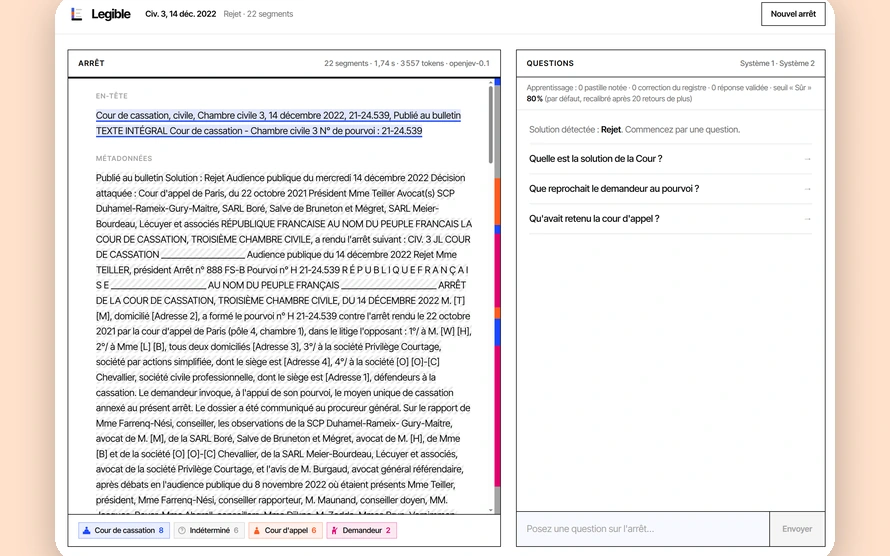
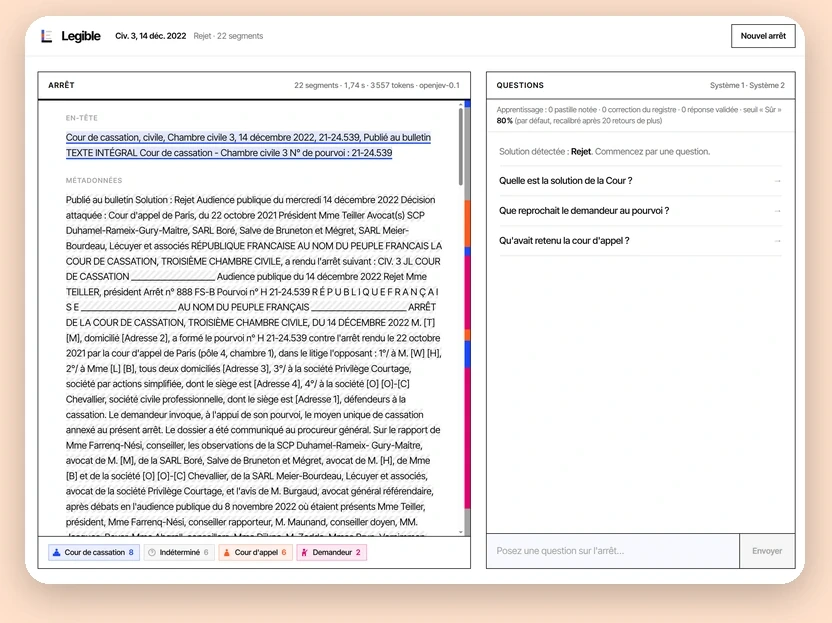
Fix Legible media hashes so its gallery renders

diff --git a/src/lib/data/media.js b/src/lib/data/media.js
@@ -77,42 +77,45 @@ export const media = {
     tone: "light",
   },
   "/work/intellectuel-athlete/intellectuel-athlete_cover.webp": {
-    src: "/work/intellectuel-athlete/intellectuel-athlete_cover.webp",
-    width: 890,
-    height: 676,
-    tone: "light",
+    src: "/work/intellectuel-athlete/intellectuel-athlete_cover_trim.webp",
+    hash: "cb30f8c9193b",
+    width: 532,
+    height: 596,
+    tone: "dark",
   },
   "/work/intellectuel-athlete/intellectuel-athlete_screenshot_1.webp": {
-    src: "/work/intellectuel-athlete/intellectuel-athlete_screenshot_1.webp",
-    width: 890,
-    height: 676,
-    tone: "light",
+    src: "/work/intellectuel-athlete/intellectuel-athlete_screenshot_1_trim.webp",
+    hash: "a58008577ec6",
+    width: 487,
+    height: 596,
+    tone: "dark",
   },
   "/work/intellectuel-athlete/intellectuel-athlete_screenshot_2.webp": {
-    src: "/work/intellectuel-athlete/intellectuel-athlete_screenshot_2.webp",
-    width: 890,
-    height: 676,
-    tone: "light",
+    src: "/work/intellectuel-athlete/intellectuel-athlete_screenshot_2_trim.webp",
+    hash: "cd718fede853",
+    width: 596,
+    height: 594,
+    tone: "dark",
   },
   "/work/legible/legible_cover.webp": {
     src: "/work/legible/legible_cover_trim.webp",
-    hash: "fdf74a23c6e8",
-    width: 890,
-    height: 556,
+    hash: "ae8dfb87a279",
+    width: 835,
+    height: 622,
     tone: "light",
   },
   "/work/legible/legible_screenshot_1.webp": {
     src: "/work/legible/legible_screenshot_1_trim.webp",
-    hash: "fdf74a23c6e8",
-    width: 890,
-    height: 556,
+    hash: "90ba414b5a12",
+    width: 832,
+    height: 623,
     tone: "light",
   },
   "/work/legible/legible_screenshot_2.webp": {
     src: "/work/legible/legible_screenshot_2_trim.webp",
-    hash: "fdf74a23c6e8",
-    width: 890,
-    height: 556,
+    hash: "ea39c5589c65",
+    width: 835,
+    height: 621,
     tone: "light",
   },
   "/work/miropolis/miropolis_cover.webp": {
